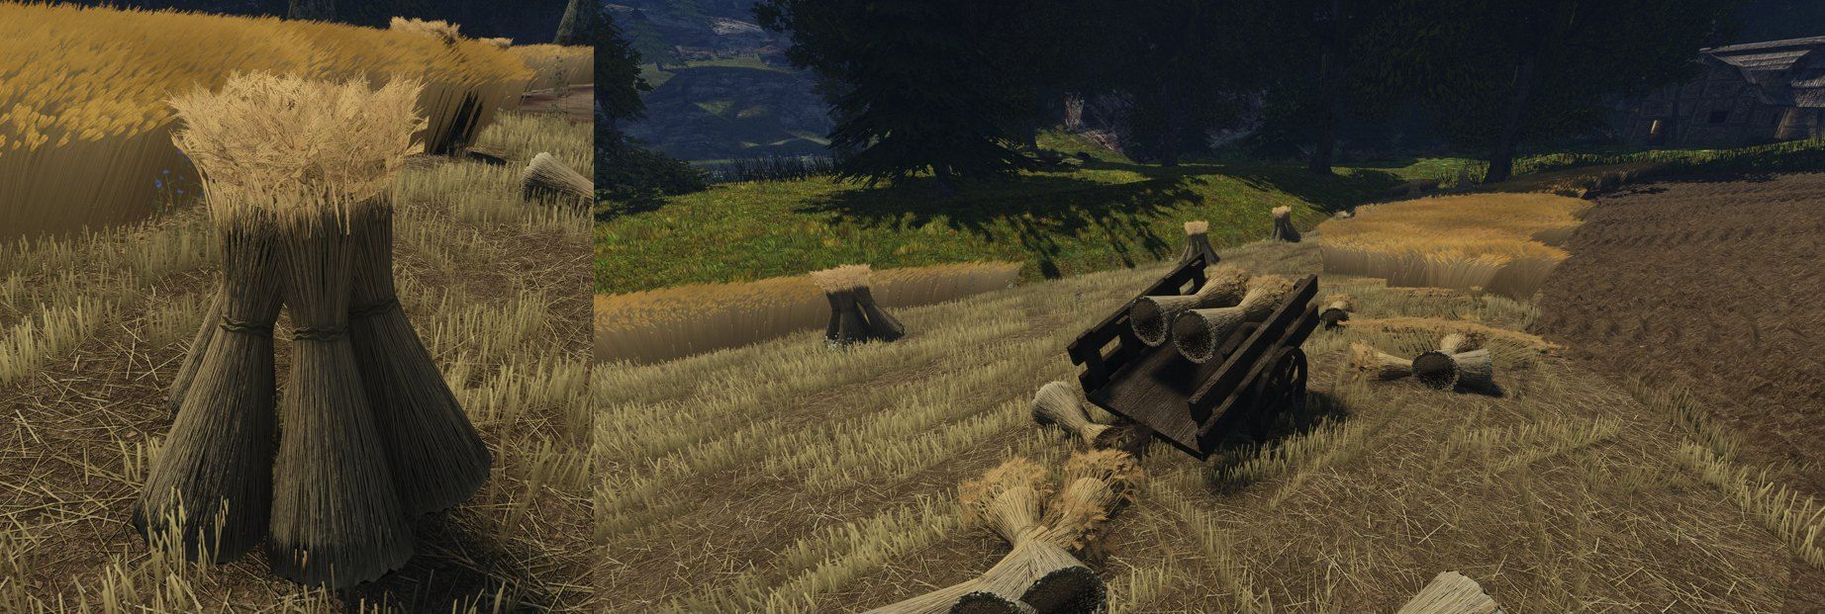
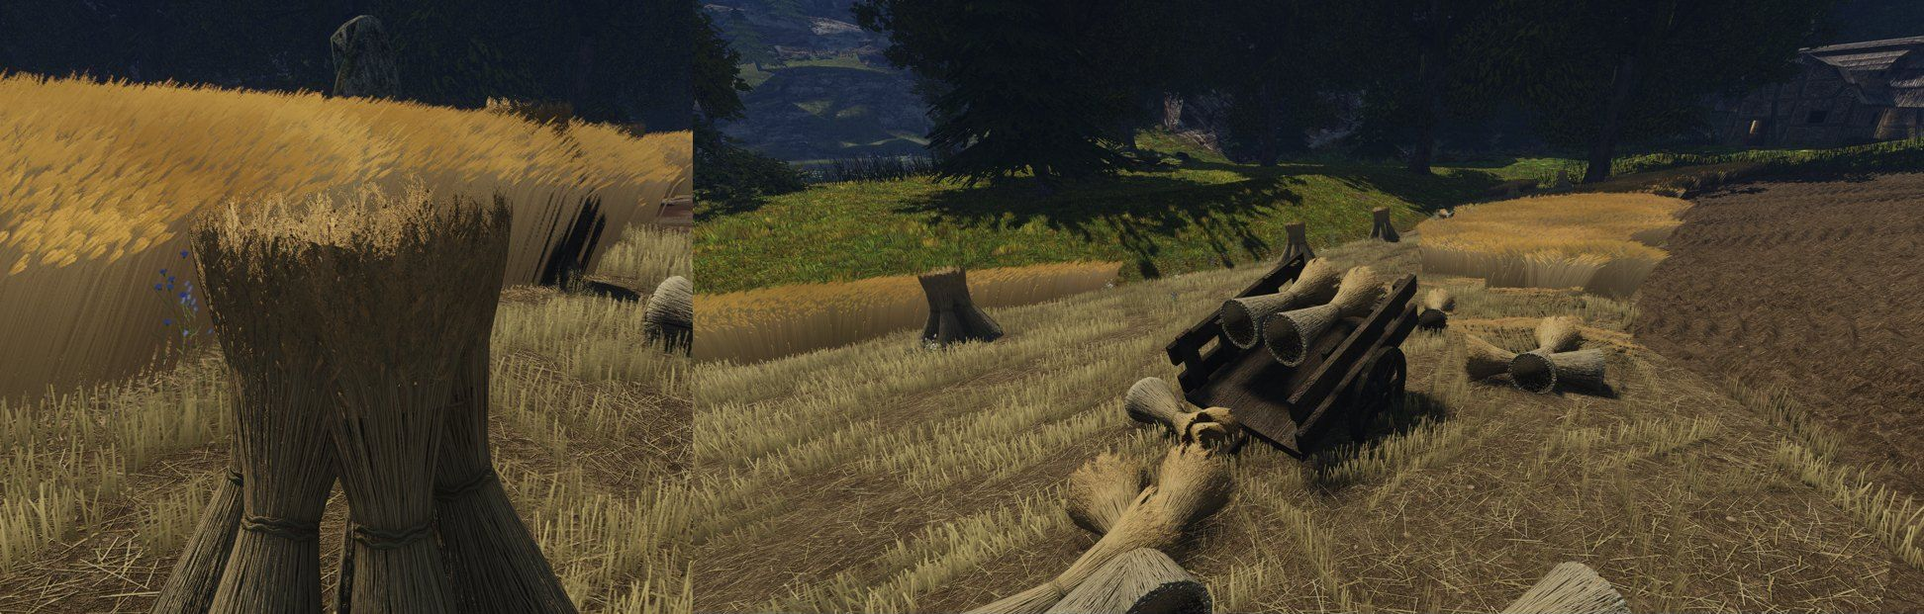
Sheaf: one surface and one texture from butts to ears, the ears on the straws the body shows

diff --git a/scripts/content/mesh3d/blender/sheaf_model.py b/scripts/content/mesh3d/blender/sheaf_model.py
@@ -3,14 +3,15 @@
     blender -b -P sheaf_model.py -- --out work/sheaf [--size 1024] [--seed 7]
 
 reports/content/2026-11-19-crop-fields/sheaf.md. The sheaf is modelled as it is bound: some 900 straws from the
-splayed butts through the waist under a band of twisted straw to the flared top, over a dark core. The game's mesh
-is a lathe round that body with a cap at each end; colour, relief and the shade between the straws are baked on it
-from the straws. The ears are no part of the body: two cards of the straws' tops with necks and ears
-(crop_cards.ears) are baked beside it, the builder stands them in a ring round the top.
+splayed butts through the waist under a band of twisted straw to the flared top, each ending in its neck and its
+ear, over a dark core. The game's mesh is one surface round that model: a lathe with a cap at each end up to where
+the straws part, and the same lathe going on as an open collar through the ears, with a second collar inside it.
+Colour, relief and the shade between the straws are baked on it from the straws; over the collars the bake's
+coverage is the cut-out. So the ears stand on the straws the body shows, in one texture (the user, 2026-11-20:
+a ring of separate cards of ears read as another thing stuck on the body).
 
 Writes `sheaf.npz`: `position`, `normal` (metres, Z up, the sheaf's foot at 0), `uv` (the image's, v down),
-`index` of the body; `colour` (linear), `alpha`, `tangent_normal` (0..1), `ao`, top row first; and `sheaf.json`:
-the profile and the cells of the two cards.
+`index`; `colour` (linear), `alpha`, `tangent_normal` (0..1), `ao`, top row first; and `sheaf.json`.
 """
 import argparse
 import json
@@ -24,18 +25,21 @@ import numpy as np
 sys.path.insert(0, str(Path(__file__).parent))
 import crop_cards as cc  # noqa: E402
 
-# height in metres, radius: the butts splay on the ground, the band sits at the waist
-PROFILE = ((0., .245), (.12, .215), (.4, .15), (.64, .098), (.72, .086), (.8, .098), (.98, .15), (1.1, .185))
+# height in metres, radius: the butts splay on the ground, the band sits at the waist; from BODY_TOP the surface
+# is a collar through the ears
+PROFILE = ((0., .245), (.12, .215), (.4, .15), (.64, .098), (.72, .086), (.8, .098), (.95, .14), (1.04, .165),
+           (1.12, .205), (1.21, .25), (1.3, .285), (1.38, .3))
+BODY_TOP = 1.04
+INNER = ((1.04, .07), (1.14, .1), (1.24, .135), (1.33, .15))     # the collar inside: the ears of the middle
+INNER_SIDES = 8
 BAND = .72
 SIDES = 14
 STRAWS = 900
 STUBS = 420                 # short ends that fill the butt and the top between the straws: what the caps show
 STRAW_RADIUS = .0026
-BODY = (0., .75)            # the body's share of the atlas along u
+BODY = (0., .75)            # the surface's share of the atlas along u
 CAPS = ((.875, .875), (.875, .625), .115)     # centres of the butt's and the top's discs, their radius, Blender's uv
-CARD = .42                  # m: a card of ears is square
-CARD_CELLS = ((.775, .26), (.775, .01), .22)  # the low corners of the two cards and their side, Blender's uv:
-                                              # clear of the body and of the atlas' edge, whose texels the mips mix in
+INNER_CELL = ((.775, .01), (.22, .46))        # the inner collar's low corner and size, Blender's uv
 EAR_TONE = cc.linear('#9a7a45')               # the ear of a stalk on the field (crop_field_life.STAND_MEAN's note)
 DARK = cc.linear('#3a2f1c')
 
@@ -46,18 +50,18 @@ def radius(z):
 
 
 def tube(points, colours, faces, line, thick, colour, sides=5, capped=True):
-    """A tube along `line` (n, 3) with a colour per ring."""
+    """A tube along `line` (n, 3) with a colour per ring; thick: its radius, one or per ring."""
     line = np.asarray(line, np.float64)
     along = np.gradient(line, axis=0)
     along /= np.linalg.norm(along, axis=1, keepdims=True)
     first = len(points)
-    for at, way, tone in zip(line, along, colour):
+    for at, way, tone, wide in zip(line, along, colour, np.broadcast_to(thick, len(line))):
         a = np.cross(way, (.3, .5, .81))
         a /= np.linalg.norm(a)
         b = np.cross(way, a)
         for k in range(sides):
             angle = 2 * math.pi * k / sides
-            points.append(tuple(at + (a * math.cos(angle) + b * math.sin(angle)) * thick))
+            points.append(tuple(at + (a * math.cos(angle) + b * math.sin(angle)) * wide))
             colours.append((*tone, 1.))
     for ring in range(len(line) - 1):
         for k in range(sides):
@@ -70,10 +74,10 @@ def tube(points, colours, faces, line, thick, colour, sides=5, capped=True):
 
 def straws(rng):
     points, colours, faces = [], [], []
-    top = PROFILE[-1][0]
+    top = BODY_TOP
     for _ in range(STRAWS):
         share, angle = rng.random() ** .3, rng.uniform(0, 2 * math.pi)     # most of them near the outside
-        end = top + rng.uniform(-.03, .035)
+        end = top + rng.uniform(-.06, .15)        # a ragged head: the straws are of many lengths
         heights = np.array((rng.uniform(0, .035) * share, .12, .4, .64, BAND, .8, .98, end))
         twist = angle + rng.normal(0, .05) + (heights - BAND) * rng.normal(0, .5)
         reach = radius(heights) * share * (1 + rng.normal(0, .025, len(heights)))
@@ -84,6 +88,32 @@ def straws(rng):
         colour = (cc.STEM_LOW * (1 - rise) + cc.STEM_HIGH * rise) * tone * 1.25
         colour[0] *= 1.25                                                  # the cut end is paler
         tube(points, colours, faces, line, STRAW_RADIUS * rng.uniform(.8, 1.2), colour)
+        # its neck goes over, outwards for the outer straws, and the ear hangs from it
+        way = line[-1] - line[-2]
+        way /= np.linalg.norm(way)
+        turn = twist[-1] + rng.normal(0, .5 + 2.5 * (1 - share))
+        aim = np.array((math.cos(turn), math.sin(turn), rng.uniform(-.5, .3)))
+        aim /= np.linalg.norm(aim)
+        nod, at, head = rng.uniform(.25, .85) * (.5 + .5 * share), line[-1].copy(), [line[-1].copy()]
+        for k in range(1, 15):
+            bend = nod * min(k / 6, 1.) + (.12 * (k - 6) / 8 if k > 6 else 0.)
+            ahead = way * (1 - bend) + aim * bend
+            at = at + ahead / np.linalg.norm(ahead) * (rng.uniform(.07, .1) / 6 if k <= 6 else rng.uniform(.095, .125) / 8)
+            head.append(at.copy())
+        head = np.array(head)
+        ear = (cc.STEM_HIGH + EAR_TONE) / 2 * tone * 1.6
+        tube(points, colours, faces, head[:7], STRAW_RADIUS * .8, np.tile(cc.STEM_HIGH * tone * 1.25, (7, 1)), capped=False)
+        grain = np.where(np.arange(9) % 2 == 0, 1., .8)[:, None]
+        tube(points, colours, faces, head[6:], np.array((.0025, .0048, .0058, .006, .006, .0056, .005, .004, .002)),
+             ear * grain, sides=4)
+        for k in range(7, 14):
+            along = head[k + 1] - head[k]
+            along /= np.linalg.norm(along)
+            for _ in range(2):
+                out = np.cross(along, rng.normal(0, 1, 3))
+                tip = head[k] + (along + out / np.linalg.norm(out) * rng.uniform(.3, .5)) * rng.uniform(.04, .075)
+                tube(points, colours, faces, (head[k], tip), np.array((.0011, .0006)), np.tile(ear * 1.08, (2, 1)),
+                     sides=3, capped=False)
     for _ in range(STUBS):
         share, angle = math.sqrt(rng.random()) * .88, rng.uniform(0, 2 * math.pi)
         for low, high in ((rng.uniform(0, .03), .09), (top - .09, top - rng.uniform(.005, .05))):
@@ -102,12 +132,12 @@ def straws(rng):
             tube(points, colours, faces, line + shift, .006, np.tile(cc.BAND * (1. - .12 * strand), (len(line), 1)),
                  capped=False)
     # the dark between the straws
-    rings = [(z, radius(z) * .8) for z, _ in PROFILE]
+    rings = [(z, radius(z) * .8) for z, _ in PROFILE if z <= BODY_TOP]
     first = len(points)
     for z, reach in rings:
         for k in range(24):
             points.append((math.cos(2 * math.pi * k / 24) * reach, math.sin(2 * math.pi * k / 24) * reach,
-                           float(np.clip(z, .07, top - .08))))     # behind the stubs of both ends
+                           float(np.clip(z, .05, top - .05))))     # behind the stubs of both ends
             colours.append((*DARK, 1.))
     for ring in range(len(rings) - 1):
         for k in range(24):
@@ -121,22 +151,28 @@ def straws(rng):
 def body():
     """The game's mesh: position, normal, uv (Blender's), triangles."""
     position, normal, uv, index = [], [], [], []
-    profile = np.asarray(PROFILE)
-    slope = np.gradient(profile[:, 1], profile[:, 0])
-    top = profile[-1, 0]
-    for (z, reach), lean in zip(profile, slope):
-        for k in range(SIDES + 1):
-            angle = 2 * math.pi * k / SIDES
-            out = np.array((math.cos(angle), math.sin(angle), -lean))
-            position.append((math.cos(angle) * reach, math.sin(angle) * reach, z))
-            normal.append(tuple(out / np.linalg.norm(out)))
-            uv.append((BODY[0] + (BODY[1] - BODY[0]) * k / SIDES, z / top))
-    for ring in range(len(profile) - 1):
-        for k in range(SIDES):
-            a, b = ring * (SIDES + 1) + k, ring * (SIDES + 1) + k + 1
-            index += [(a, b, b + SIDES + 1), (a, b + SIDES + 1, a + SIDES + 1)]
-    for (z, reach), centre, up in ((profile[0], CAPS[0], -1.), (profile[-1], CAPS[1], 1.)):
-        first = len(position)
+    top = PROFILE[-1][0]
+
+    def lathe(rings, sides, corner, size):
+        rings = np.asarray(rings)
+        first, slope = len(position), np.gradient(rings[:, 1], rings[:, 0])
+        for (z, reach), lean in zip(rings, slope):
+            for k in range(sides + 1):
+                angle = 2 * math.pi * k / sides
+                out = np.array((math.cos(angle), math.sin(angle), -lean))
+                position.append((math.cos(angle) * reach, math.sin(angle) * reach, z))
+                normal.append(tuple(out / np.linalg.norm(out)))
+                uv.append((corner[0] + size[0] * k / sides,
+                           corner[1] + size[1] * (z - rings[0, 0]) / (rings[-1, 0] - rings[0, 0])))
+        for ring in range(len(rings) - 1):
+            for k in range(sides):
+                a, b = first + ring * (sides + 1) + k, first + ring * (sides + 1) + k + 1
+                index.extend([(a, b, b + sides + 1), (a, b + sides + 1, a + sides + 1)])
+
+    lathe(PROFILE, SIDES, (BODY[0], 0.), (BODY[1] - BODY[0], 1.))
+    lathe(INNER, INNER_SIDES, *INNER_CELL)
+    for z, centre, up in ((0., CAPS[0], -1.), (BODY_TOP, CAPS[1], 1.)):
+        first, reach = len(position), float(radius(z))
         position.append((0., 0., z))
         normal.append((0., 0., up))
         uv.append(centre)
@@ -199,24 +235,8 @@ def main():
     high = [placed('straws', points, faces, colours)]
     for polygon in high[0].data.polygons:
         polygon.use_smooth = True
-    cells = {}
     position, normal, uv, index = body()
     low_points, low_faces, low_uv = [tuple(p) for p in position], [tuple(t) for t in index], [tuple(t) for t in uv]
-    for number, (name, corner) in enumerate(zip(('ears_a', 'ears_b'), CARD_CELLS[:2])):
-        sheet = cc.Sheet()
-        cc.ears(sheet, rng, CARD, CARD, 13 + number * 3)
-        ears = bpy.data.objects.new(name, sheet.mesh(name))
-        scene.collection.objects.link(ears)
-        ears.location = (3. + number, 0., -1.2)
-        high.append(ears)
-        # the card the ears are baked on: in front of them, facing the way crop_cards' camera looks from
-        first, side = len(low_points), CARD_CELLS[2]
-        for dx, dz in ((-.5, 0.), (.5, 0.), (.5, 1.), (-.5, 1.)):
-            low_points.append((3. + number + dx * CARD, -.07, dz * CARD - cc.MARGIN))
-            low_uv.append((corner[0] + (dx + .5) * side, corner[1] + dz * side))
-        low_faces += [(first, first + 1, first + 2), (first, first + 2, first + 3)]
-        cells[name] = dict(u=(corner[0], corner[0] + side), v_root=1 - corner[1], v_tip=1 - corner[1] - side,
-                           width_cm=CARD * 100, height_cm=CARD * 100)
     low = placed('low', low_points, low_faces, uv=low_uv)
     for polygon in low.data.polygons:
         polygon.use_smooth = True
@@ -234,7 +254,7 @@ def main():
     bake = scene.render.bake
     bake.use_selected_to_active = True
     bake.cage_extrusion = .035
-    bake.max_ray_distance = .16
+    bake.max_ray_distance = .09      # a collar takes the ears of its own depth: the head stays loose
     bake.margin = 8
     bake.normal_space = 'TANGENT'
     bpy.ops.object.select_all(action='DESELECT')
@@ -259,28 +279,31 @@ def main():
         return pixels.reshape(args.size, args.size, 4)[::-1, :, :3]
 
     colour = baked('colour', 4, coloured)
-    bake.margin = 0             # the margin would grow the ears of the cards
+    bake.margin = 0             # the margin would grow the ears
     alpha = baked('cover', 4, white)[..., 0]
     bake.margin = 8
     tangent = baked('NORMAL', 4)
     ao = baked('AO', 96)[..., 0]
 
-    # the cards: no relief, the ears in the tone the field's stalks end in; the body: opaque
-    rows = np.arange(args.size)[:, None] / args.size
-    columns = np.arange(args.size)[None, :] / args.size
-    card = (columns >= BODY[1] + .005) & (rows >= 1 - CARD_CELLS[0][1] - CARD_CELLS[2] - .01)
-    light = colour @ np.array((.2126, .7152, .0722))
-    toned = light[..., None] * EAR_TONE / (EAR_TONE @ np.array((.2126, .7152, .0722)))
-    colour = np.where(card[..., None], colour * .35 + toned * .65, colour)
-    alpha = np.where(card, alpha, 1.)
-    tangent = np.where(card[..., None], np.array((.5, .5, 1.)), tangent)
-    ao = np.where(card, 1., ao)
+    # the surface is opaque up to where the straws part, and on its caps; over the collars the bake's cover cuts it
+    rows = 1 - (np.arange(args.size)[:, None] + .5) / args.size        # Blender's v of a row
+    columns = (np.arange(args.size)[None, :] + .5) / args.size
+    solid = ((columns < BODY[1]) & (rows < BODY_TOP / PROFILE[-1][0])) | ((columns > BODY[1] + .005) & (rows > .5))
+    alpha = np.where(solid, 1., alpha)
+    # the head is open to the sky: the ears shade each other less than the bake of so dense a model says, and
+    # their relief is too fine for the light to follow
+    # (rising over the last of the body, so no line shows where the surface opens)
+    top = PROFILE[-1][0]
+    head = np.clip((rows - (BODY_TOP - .14) / top) / (.18 / top), 0, 1) * np.ones_like(columns)
+    head = np.where(columns < BODY[1], head * head * (3 - 2 * head), np.where(solid, 0., 1.))
+    ao = ao + (1 - ao) * .45 * head
+    tangent = tangent + (np.array((.5, .5, 1.)) - tangent) * .6 * head[..., None]
 
     np.savez(out / 'sheaf.npz', position=position, normal=normal, uv=np.stack([uv[:, 0], 1 - uv[:, 1]], axis=1),
              index=index, colour=colour.astype(np.float16), alpha=alpha.astype(np.float16),
              tangent_normal=tangent.astype(np.float16), ao=ao.astype(np.float16))
     (out / 'sheaf.json').write_text(json.dumps(dict(size=args.size, seed=args.seed, profile=PROFILE, band_m=BAND,
-                                                    straws=STRAWS + 2 * STUBS, triangles=len(index), cells=cells), indent=2) + '\n')
+                                                    straws=STRAWS + 2 * STUBS, triangles=len(index), body_top_m=BODY_TOP), indent=2) + '\n')
     preview = bpy.data.images.new('preview', args.size, args.size, alpha=True)
     lit = np.clip(colour * (.45 + .55 * ao[..., None]), 0, 1) ** (1 / 2.2)
     preview.pixels.foreach_set(np.concatenate([lit, alpha[..., None]], axis=2)[::-1].astype(np.float32).ravel())

diff --git a/scripts/content/crop_field_set.py b/scripts/content/crop_field_set.py
@@ -15,8 +15,8 @@ without touching what it copies:
   `"two_sided": "same"`;
 - the meshes, `meshes/crop_field/`: a row of rye is three cards 10 cm apart, 1.5 m long, bent in four links, with
   five cards of ears laid over its top every way; a tuft is two crossed cards of a few stalks, for the reaped edge;
-  a row of stubble two cards; a sheaf is a body baked from a sheaf modelled straw by straw with a ring of cards
-  of ears (mesh3d/blender/sheaf_model.py, sheaf.md), a stook five or six of them leant together. The original's
+  a row of stubble two cards; a sheaf is one surface baked from a sheaf modelled straw by straw, ears and all
+  (mesh3d/blender/sheaf_model.py, sheaf.md), a stook five or six of them leant together. The original's
   sheaves on a field (NW_MISC_STRAW_02) give their places to our stooks; its bales stay;
 - the places, `worlds/<WORLD>/vobs.d/crop-field.json`: a field is cut across its long axis into three to five strips
   about 6.5 m wide (rye, stubble, rye, plough, stubble, the next field a strip on; or the mirror of it, whichever
@@ -91,9 +91,9 @@ SWATHS, SHEAVES = 350., 1000.   # cm behind the front: loose swaths to here, lyi
 CART = 'NW_CITY_CART_01.3DS'
 RAKE, SICKLE = 'ITMI_RAKE.3DS', 'ITMW_007_1H_SICKLE_01.3DS'
 STOOK_STEP = 700.           # cm between stooks along a stubble strip
-# # our own sheaf (sheaf.md): a body baked from a sheaf modelled straw by straw, a ring of cards of ears round its top
-SHEAF, SHEAF_WORK = 'OWN_CROP_SHEAF', HOME / 'crop-fields/work/sheaf-1'
-SHEAF_MEAN = (.36, .27, .12)    # linear, the body's mean: dry straw, a step paler than the standing rye
+# # our own sheaf (sheaf.md): one surface baked from a sheaf modelled straw by straw, ears and all
+SHEAF, SHEAF_WORK = 'OWN_CROP_SHEAF', HOME / 'crop-fields/work/sheaf-2'
+SHEAF_MEAN = (.36, .27, .12)    # linear, the sheaf's mean: dry straw, a step paler than the standing rye
 SHEAF_ORIGINAL = 'NW_MISC_STRAW_02.3DS'     # the original's sheaf: on a field ours stands in its place
 BALES = ('NW_MISC_STRAW_01.3DS', 'NW_MISC_STRAW_GROUP_01.3DS')    # the original's bale and stack of bales stay
 BALE_CLEAR = 250.           # cm: no sheaf of ours nearer to one of them
@@ -129,9 +129,9 @@ def render_sheaf(folder: Path, seed: int) -> None:
                     '--out', str(folder), '--seed', str(seed)], check=True)
 
 
-def sheaf(mesh, model, cells: dict, rng, foot, axis, turn: float) -> None:
+def sheaf(mesh, model, foot, axis, turn: float) -> None:
     """A sheaf of sheaf_model.py into the mesh: its foot's middle at `foot` (cm, the mesh's axes), its length along
-    the unit vector `axis`, turned about it by `turn` radians; the ears stand in a ring round the top."""
+    the unit vector `axis`, turned about it by `turn` radians."""
     foot, axis = np.asarray(foot, np.float64), np.asarray(axis, np.float64)
     b = np.cross(axis, (0., 0., 1.) if abs(axis[2]) < .9 else (1., 0., 0.))
     b /= np.linalg.norm(b)
@@ -141,20 +141,7 @@ def sheaf(mesh, model, cells: dict, rng, foot, axis, turn: float) -> None:
     position, normal = foot + model['position'] * 100 @ frame.T, model['normal'] @ frame.T
     for triangle in model['index']:
         mesh.triangle([(position[k], normal[k], model['uv'][k]) for k in triangle], normal[triangle].sum(axis=0))
-    top = float(model['position'][:, 2].max()) * 100
-    ring = [(2 * math.pi * (k + rng.uniform(-.3, .3)) / 9, 11., rng.uniform(18, 38)) for k in range(9)]
-    ring += [(rng.uniform(0, 2 * math.pi), 0., rng.uniform(-8, 8)) for _ in range(3)]      # and the middle of it
-    for number, (angle, reach, lean) in enumerate(ring):
-        cell = cells[('ears_a', 'ears_b')[number % 2]]
-        out = b * math.cos(angle) + c * math.sin(angle)
-        along = np.cross(axis, out) * cell['width_cm'] / 2
-        rise = (axis * math.cos(math.radians(lean)) + out * math.sin(math.radians(lean))) * cell['height_cm']
-        low = foot + axis * (top - 9.) + out * reach
-        lit = unit(out * .6 + axis * .8)
-        u0, u1 = cell['u'][::-1] if rng.random() < .5 else cell['u']
-        mesh.quad([(low - along, lit, (u0, cell['v_root'])), (low + along, lit, (u1, cell['v_root'])),
-                   (low + along + rise, lit, (u1, cell['v_tip'])), (low - along + rise, lit, (u0, cell['v_tip']))],
-                  out, both=True)
+    mesh.two_sided = True                               # the collars of ears are seen from inside as well
 
 
 def pack(sizes: dict, side: int) -> dict:
@@ -216,7 +203,7 @@ def tilted(mesh, cell: dict, x: float, y: float, z: float, yaw: float, tilt: flo
                (foot + rise * height - along * half, normal, (u0, cell['v_tip']), open)], out, both=True)
 
 
-def build_meshes(cards, cells: dict, weeds: dict, sheaf_model, sheaf_cells: dict, directory: Path, rng) -> dict:
+def build_meshes(cards, cells: dict, weeds: dict, sheaf_model, directory: Path, rng) -> dict:
     """name -> dict(glb, triangles, material)."""
     made = {}
 
@@ -260,11 +247,11 @@ def build_meshes(cards, cells: dict, weeds: dict, sheaf_model, sheaf_cells: dict
             angle = 2 * math.pi * (k + rng.uniform(-.2, .2)) / count
             out, reach = np.array((math.cos(angle), 0., math.sin(angle))), rng.uniform(42, 50)
             tilt = math.asin((reach - rng.uniform(10, 16)) / 110.)
-            sheaf(mesh, sheaf_model, sheaf_cells, rng, out * reach + (0., 5., 0.),
+            sheaf(mesh, sheaf_model, out * reach + (0., 5., 0.),
                   np.array((0., 1., 0.)) * math.cos(tilt) - out * math.sin(tilt), rng.uniform(0, 2 * math.pi))
         write(f'{SHEAF}_STOOK_{name}', mesh, SHEAF)
     mesh = cards.Mesh()                         # a sheaf lying where it was bound: along the mesh's X, on its two rims
-    sheaf(mesh, sheaf_model, sheaf_cells, rng, (-58., 24., 0.), unit((110., -5., 0.)), rng.uniform(0, 2 * math.pi))
+    sheaf(mesh, sheaf_model, (-69., 25., 0.), unit((138., 5., 0.)), rng.uniform(0, 2 * math.pi))
     write(f'{SHEAF}_LYING', mesh, SHEAF)
     for name, lay in (('A', (('rye_a', -6., 84.), ('rye_c', 9., 87.))), ('B', (('rye_b', 7., 86.), ('rye_a', -11., 82.),
                                                                               ('tuft_b', 30., 80.)))):
@@ -778,8 +765,7 @@ def main() -> int:
         render_sheaf(args.sheaf, args.seed)
     sheaf_model = {name: value.astype(np.float64) if name != 'index' else value
                    for name, value in np.load(args.sheaf / 'sheaf.npz').items()}
-    sheaf_cells = json.loads((args.sheaf / 'sheaf.json').read_text())['cells']
-    meshes = build_meshes(cards, cells, weed_cells, sheaf_model, sheaf_cells, work / 'meshes' / FOLDER, rng)
+    meshes = build_meshes(cards, cells, weed_cells, sheaf_model, work / 'meshes' / FOLDER, rng)
 
     small = ATLAS // 512
 
@@ -811,9 +797,8 @@ def main() -> int:
     directory = work / 'materials/crop_sheaf'
     directory.mkdir(parents=True)
     ao, cover = sheaf_model['ao'], sheaf_model['alpha']
-    body = cover > .999
     shaded = sheaf_model['colour'] * (.55 + .45 * ao[..., None])
-    shaded[body] *= np.array(SHEAF_MEAN) / shaded[body].mean(axis=0)
+    shaded *= np.array(SHEAF_MEAN) / shaded[cover > .5].mean(axis=0)     # one gain: straws and ears keep their ratio
     cards.write_cutout(dds, pilot.encode, directory / 'albedo.dds', np.clip(shaded, 0, 1), cover)
     relief = sheaf_model['tangent_normal'] * 2 - 1
     dds.write_dds(directory / 'normal.dds', (relief * (1., -1., 1.)).astype(np.float32), normal=True)   # Blender's green is up

diff --git a/reports/content/2026-11-19-crop-fields/sheaf.md b/reports/content/2026-11-19-crop-fields/sheaf.md
@@ -15,28 +15,30 @@
 
 ## Способ
 
-1. **Модель из соломин.** [`sheaf_model.py`](../../../scripts/content/mesh3d/blender/sheaf_model.py) в Blender строит сноп как он связан: 900 соломин от расходящихся комлей через талию под перевяслом из двух жгутов к раскрытому верху, короткие концы заполняют оба торца, внутри тёмная сердцевина. Высота тела 1,1 м, радиус комля 24,5 см, талии 8,6 см.
-2. **Тело для игры** — тело вращения в 14 граней вокруг этой модели с крышками на торцах, 224 треугольника. Цвет, рельеф (карта нормалей) и тень между соломинами (AO) запечены на него с соломин, атлас 1024 × 1024.
-3. **Колосья** — две карточки верхушек стеблей с шейками и колосьями (`crop_cards.ears`), запечены в тот же атлас и приведены к тону колоса ржи на поле (`#9a7a45`). Сборщик ставит девять карточек кольцом вокруг верха с наклоном наружу и три в середине. Сноп целиком — 248 треугольников.
+1. **Модель из соломин.** [`sheaf_model.py`](../../../scripts/content/mesh3d/blender/sheaf_model.py) в Blender строит сноп как он связан: 900 соломин от расходящихся комлей через талию под перевяслом из двух жгутов к раскрытому верху. Каждая соломина заканчивается своей шейкой и колосом с остями; соломины разной длины, поэтому верх рваный. Короткие концы заполняют оба торца, внутри тёмная сердцевина.
+2. **Одна поверхность для игры.** Тело вращения в 14 граней идёт от комля до места, где соломины расходятся (1,04 м), и продолжается открытым воротником сквозь колосья до 1,38 м; внутри него второй воротник в 8 граней — колосья середины. Сноп — 384 треугольников.
+3. **Одна текстура.** Цвет, рельеф (карта нормалей) и тень между соломинами (AO) запечены с соломин на всю поверхность, атлас 1024 × 1024. На воротниках покрытие запекания служит вырезом. Поэтому колос стоит на той самой соломине, что видна на теле, и в той же гамме.
 4. **Расстановка** ([`crop_field_set.py`](../../../scripts/content/crop_field_set.py)): суслон — пять или шесть снопов, наклонённых головами друг к другу (три варианта); лежащий сноп и снопы в телеге — тот же сноп на боку. Снопы оригинала на полях (`NW_MISC_STRAW_02`, 21 штука) убираются слоем, на их месте встаёт наш суслон: дублей нет. Тюки оригинала (`_01`, `_GROUP_01`) остаются, наш сноп не ставится ближе 2,5 м к ним.
-5. **Материал** `OWN_CROP_SHEAF`: цвет с вырезом, нормали, ORM; средний цвет тела — `SHEAF_MEAN`, на шаг бледнее стоящей ржи. Тень между соломинами заложена и в цвет: издалека сноп читается ею.
+5. **Материал** `OWN_CROP_SHEAF`: цвет с вырезом, нормали, ORM; средний цвет снопа — `SHEAF_MEAN`, на шаг бледнее стоящей ржи, одно усиление на солому и колосья. Тень между соломинами заложена и в цвет: издалека сноп читается ею.
 
 Концепт `image_gen` не делался: предмет простой, эталон — настоящий сноп и суслон.
 
 ## Что вышло
 
-Набор `crop-field-17` (вне git): 140 суслонов и 107 лежащих снопов на девяти участках, 94 предмета оригинала убраны (73 купы колосьев и 21 сноп). Один прогон [`crop-sheaf.bench`](../../../scripts/bench/crop-sheaf.bench) на Mac, кадры в `.bench-out/sheaves-5/`.
+**Первый круг (PR #1695).** Колосья были кольцом отдельных карточек со своим тоном поверх тела. Пользователь: «читается как два разных предмета, просто слепленных» — другая гамма, колосья торчат не из той основы. Исправлено не подбором, а способом: пункты 1–3 выше.
+
+**Второй круг.** Набор `crop-field-18` (вне git): 140 суслонов и 107 лежащих снопов на девяти участках, 94 предмета оригинала убраны (73 купы колосьев и 21 сноп). Прогоны [`crop-sheaf.bench`](../../../scripts/bench/crop-sheaf.bench) на Mac, кадры в `.bench-out/sheaves-8/`.
 
 ![Суслон вблизи; телега и лежащие снопы](shots/sheaf-own.jpg)
 
-- Суслон читается: соломины с тенью, перевясло, светлый венец колосьев в тон полю.
-- За три прогона поправлено: тело было темнее стерни (средний цвет поднят), торец лежащего снопа был чёрной дырой (сердцевина убрана вглубь за концы соломин), по краям карточек колосьев шли тёмные линии (ячейки отодвинуты от тела в атласе).
+- Соломины тела переходят в колосья без шва, гамма одна.
+- По ходу поправлено: голова вышла темнее тела (тень плотной модели ослаблена на воротниках, рельеф там сглажен), на границе тела и воротника была видна линия (ослабление нарастает плавно).
 
 ## Не сделано
 
-- Венец лежащего снопа с теневой стороны уходит в тёмно-бурый: нормали карточек смотрят в землю.
+- Голова плотная и читается скорее трубой, чем рыхлым пучком; с теневой стороны она темнее тела.
 - Силуэт тела гладкий: отдельных соломин, выбившихся из снопа, нет.
 - Снопы в телеге длиннее её кузова и лежат без просадки.
-- Кадры — Mac, без лучей; на Ryzen не снято. Цена не мерилась: 140 суслонов по 1 240–1 488 треугольников против прежних 24–32.
+- Кадры — Mac, без лучей; на Ryzen не снято. Цена не мерилась: 140 суслонов по 1920–2304 треугольников против прежних 24–32.
 - Ячейка старого снопа осталась в атласе карточек ржи, её никто не читает.
 - В рабочий контент не включено.
